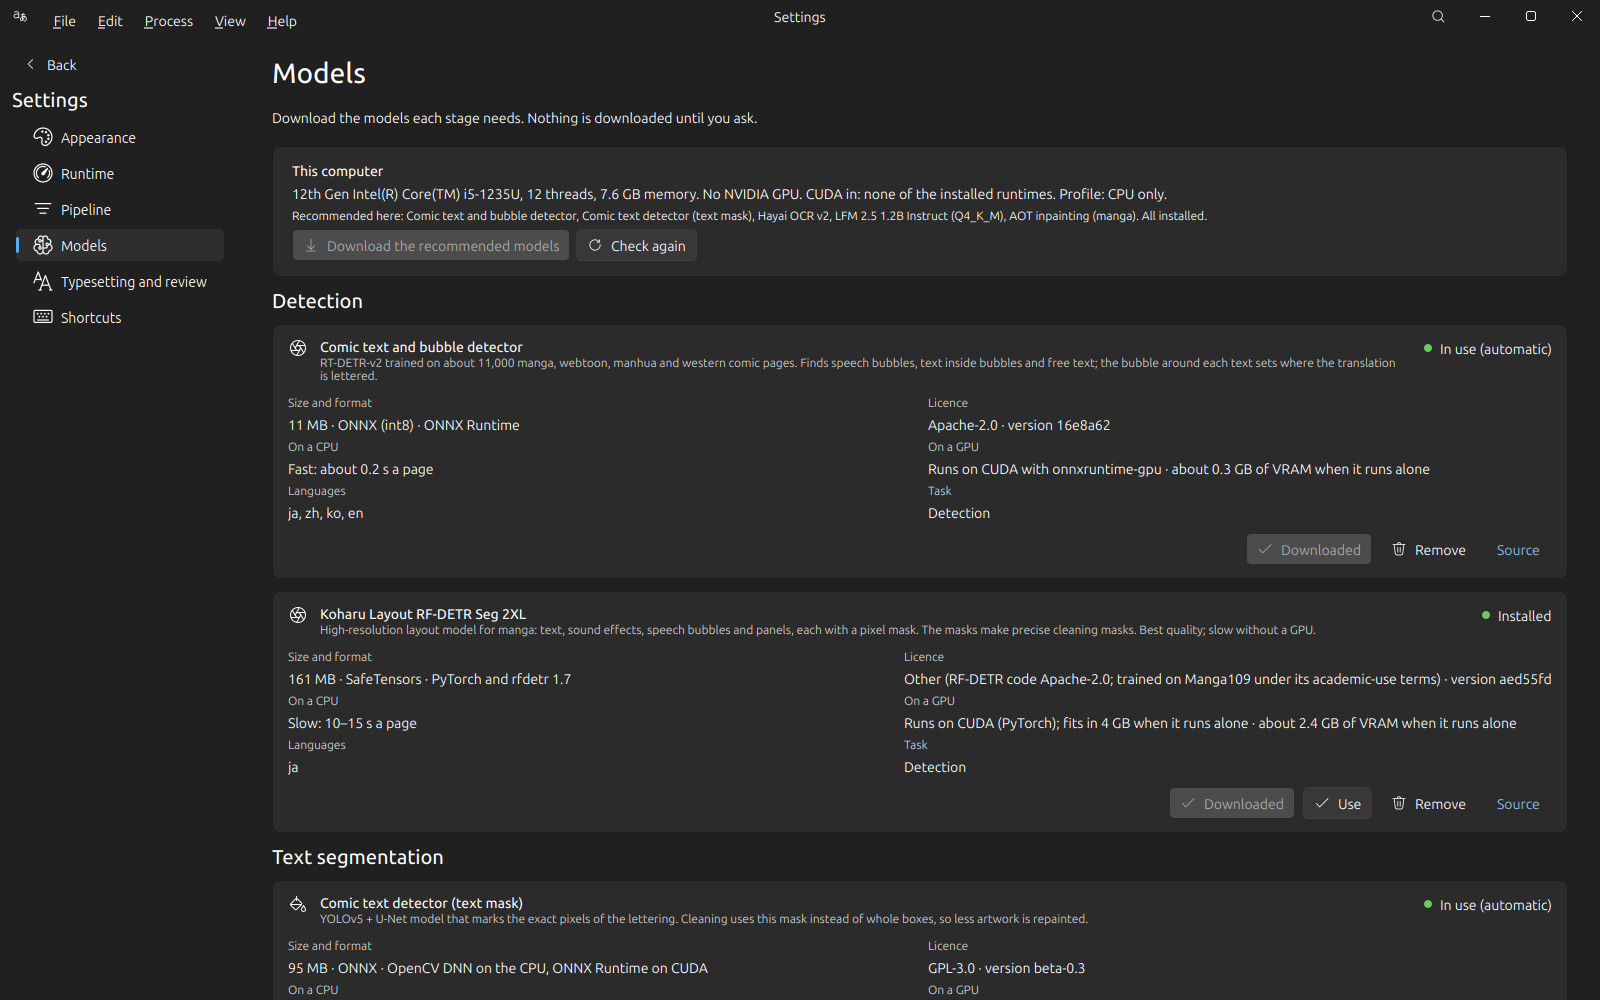
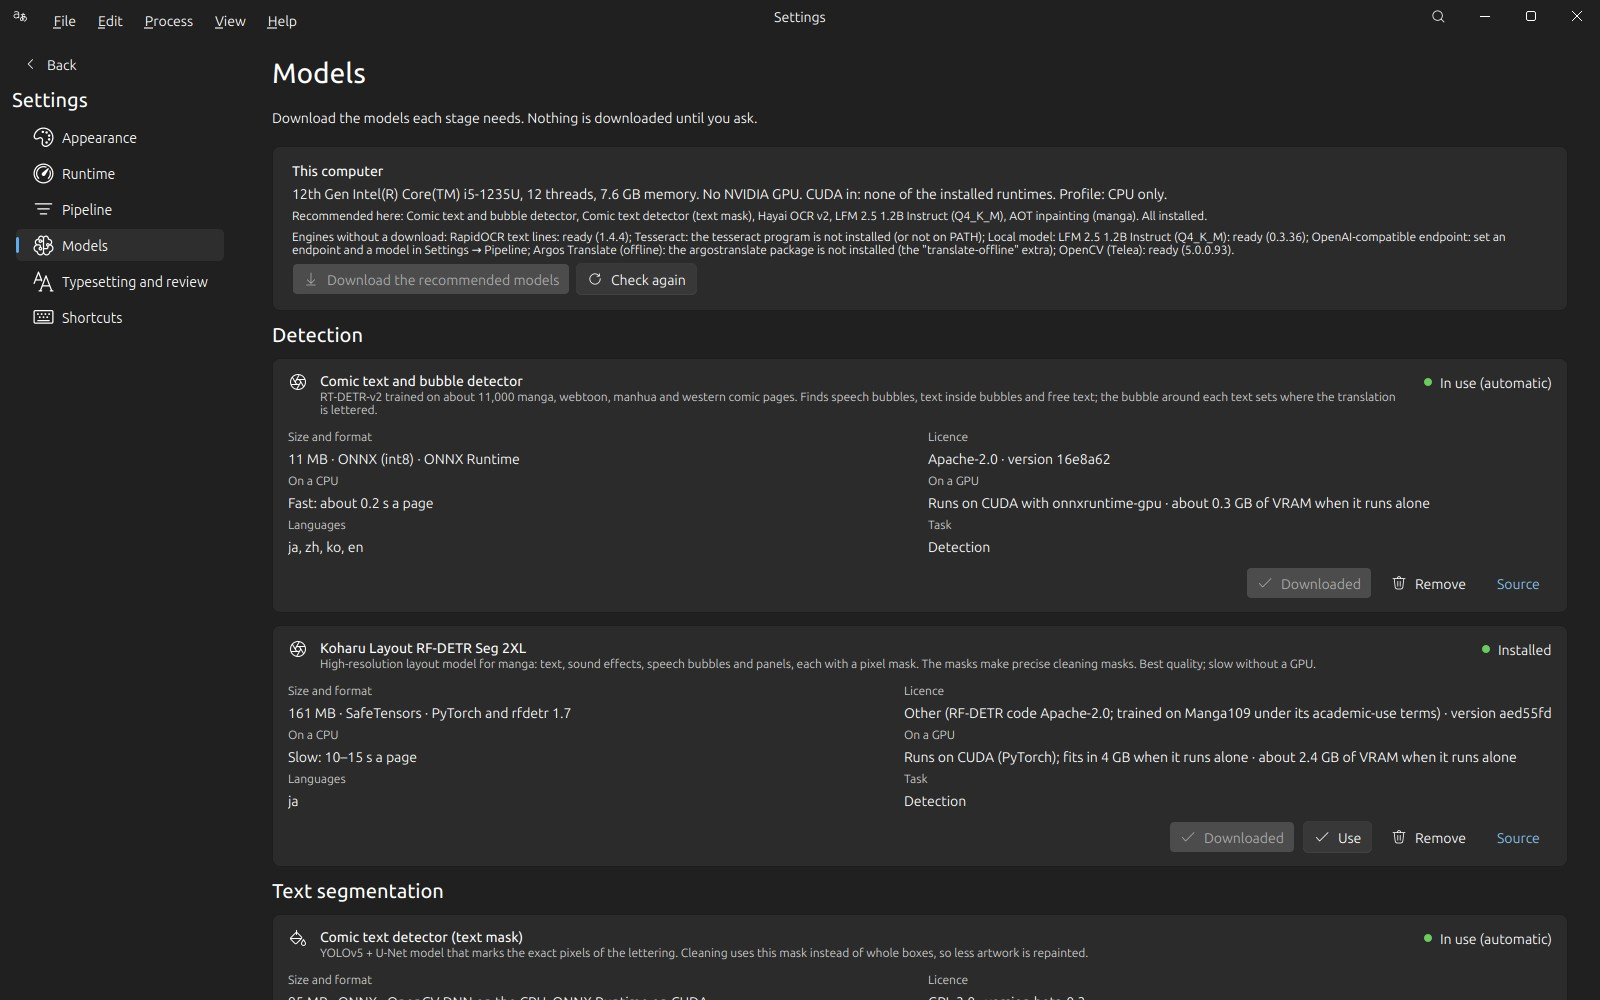
docs: update ComicTranslator showcase
Describe the model lifecycle, OCR backends and what each needs, the four groups of requirements and the uv setup, the engineering fixes (single-button About dialog, runtime loading order on Windows, packaged workers) and the measured model speeds; refresh the model manager screenshot.

diff --git a/README.md b/README.md
@@ -9,7 +9,8 @@ is modelled on [Koharu](https://github.com/koharu-rs/koharu); it is built with
 ![Portfolio](https://img.shields.io/badge/portfolio-showcase_only-1F3A5F)
 ![Source](https://img.shields.io/badge/source-private-6B6B6B)
 ![Qt](https://img.shields.io/badge/Qt-PyQt5_5.15-41CD52)
-![Models](https://img.shields.io/badge/models-local_(CPU_%7C_CUDA)-6D28D9)
+![Models](https://img.shields.io/badge/models-local,_CPU_first-6D28D9)
+![Setup](https://img.shields.io/badge/setup-uv_lock-DE5FE9)
 
 > **About this repository.** It presents ComicTranslator through screenshots and a written overview. It contains no
 > source code: the application's source is private at this stage. The comic pages in the screenshots are
@@ -34,13 +35,13 @@ overwritten.
 | At a glance | |
 |---|---|
 | **Detection** | RT-DETR comic text and bubble detector (0.2 s a page on a CPU) or Koharu's RF-DETR layout model; a segmentation model marks the lettering's exact pixels. |
-| **OCR** | Hayai OCR (Japanese, Chinese, Korean, English), Manga OCR and RapidOCR, chosen per language, with a confidence per region. |
+| **OCR** | Hayai OCR (Japanese, Chinese, Korean, English), Manga OCR, RapidOCR (Chinese, English) and Tesseract, chosen per language, with a confidence per region. |
 | **Translation** | Local GGUF models through llama.cpp (LFM 2.5, Qwen 3.5, Gemma 4), OpenAI-compatible endpoints or Argos; glossary, previous-page context and instructions. |
 | **Cleaning** | LaMa manga and AOT (PyTorch), LaMa ONNX, OpenCV or a built-in fill, at the original resolution; brush, eraser, protect and an instant Repair brush on an undoable mask. |
 | **Lettering** | Fitted to each balloon; horizontal, vertical (CJK) or right-to-left, with outline, spacing, padding and rotation. |
 | **Proofreading** | A review queue across the project (missing translations, low OCR confidence, overflow, doubtful cleanup) with keyboard navigation. |
-| **Runtime** | CPU first; CUDA through PyTorch, ONNX Runtime and llama.cpp; a Low VRAM profile for 4 GB GPUs that keeps one model on the GPU at a time and unloads it when its stage is done. |
-| **Model manager** | Download, resume, cancel, update, remove and choose models, with source, licence, size and hardware needs, and recommendations for the detected hardware. |
+| **Runtime** | CPU first. CUDA paths through PyTorch, ONNX Runtime and llama.cpp, and a Low VRAM profile for 4 GB GPUs that keeps one model on the GPU at a time, are implemented and covered by profile tests but have not yet been run on an NVIDIA GPU. |
+| **Model manager** | Download, resume, cancel, retry, update, remove and choose models, with source, licence, size and hardware needs, recommendations for the detected hardware, and each model's state read from disk. |
 
 ## Screens
 
@@ -55,7 +56,84 @@ overwritten.
 | ![Chinese](assets/comic-editor-cn.jpg) | ![Dark](assets/comic-editor-dark.jpg) |
 | **Chinese**, read with RapidOCR. | **Dark theme.** |
 | ![Models](assets/comic-models-dark.jpg) | ![Settings](assets/comic-settings.jpg) |
-| **Models:** source, licence, size and hardware. | **Settings → Pipeline.** |
+| **Models:** source, licence, size and hardware for each model; the top card lists the engines that need no download and why one is not ready (here: Tesseract not installed). | **Settings → Pipeline.** |
+
+## Models and engines
+
+| Stage | CPU default | Alternatives |
+|---|---|---|
+| Detection | Comic text and bubble detector (RT-DETR-v2, int8 ONNX) | Koharu Layout RF-DETR Seg 2XL (PyTorch, `rfdetr` 1.7.0), RapidOCR text lines |
+| Text mask | Comic text detector (OpenCV DNN on the CPU) | layout masks, an estimate inside each box |
+| OCR | Hayai OCR v2; RapidOCR for Chinese and English | Manga OCR, Tesseract |
+| Translation | LFM 2.5 1.2B (GGUF, llama.cpp) | Qwen 3.5, Gemma 4, any GGUF file, OpenAI-compatible endpoints, Argos Translate |
+| Inpainting | AOT (PyTorch) | LaMa manga, LaMa (ONNX), OpenCV Telea, a built-in fill |
+
+Every engine runs in a worker process and is probed there. The model manager tells apart three different problems: a
+Python package that is not installed, a package that is installed but fails to load (a missing CUDA or MSVC library,
+with the import error), and an external program that is missing or has no language data. A missing engine never stops
+the app: *Automatic* falls back to the next engine that is ready.
+
+## Model lifecycle
+
+Weights are never bundled. The model manager downloads them from their sources into the user data folder:
+
+* **State from disk.** A model is *installed* only when every file of its catalogued set is present with the catalogued
+  size: Hayai OCR has eight files (including its vision encoder's configuration), Manga OCR six, and all of them are
+  checked, not just the folder. The state is therefore right after a restart.
+* **States:** not downloaded · downloading · incomplete (bytes kept, *Resume*) · download failed (reason shown, *Retry*)
+  · files missing or out of date (*Re-download*) · installed / in use.
+* **Staged, resumable, verified.** A download collects the files in a staging folder, resumes each `.part` file with HTTP
+  range requests, and checks the weights against their SHA-256; a file that fails its checksum is discarded.
+* **Atomic replacement.** The staging folder replaces the model's folder in one rename only when the whole set is
+  complete, so a working model stays usable while a new revision downloads, and a failed or cancelled download never
+  looks installed. A crash between the two renames is finished or undone on the next download. Files of a damaged copy
+  whose checksum still matches are reused instead of downloaded again.
+
+## OCR backends and what each needs
+
+| Engine | Languages | Python packages | Outside Python |
+|---|---|---|---|
+| Hayai OCR v2 | ja, zh, ko, en | torch, transformers, pillow | downloaded weights |
+| Manga OCR | ja | torch, transformers, fugashi, unidic-lite | downloaded weights |
+| RapidOCR | zh, en | rapidocr-onnxruntime (Python 3.12 or older) | models ship inside the package |
+| Tesseract | per installed language | none (pytesseract is not used) | the `tesseract` program **and** its language data |
+
+Tesseract counts as ready only when the program runs and lists at least one language, and the app says which of the two is
+missing (for example, no `jpn.traineddata` for Japanese). Installing a Python OCR package does not install Tesseract.
+
+## Requirements and setup
+
+The project is locked with **uv** (`pyproject.toml` + `uv.lock`, Windows and Linux). Requirements fall into four groups:
+
+| Group | Contents | How it is installed |
+|---|---|---|
+| Python packages | PyQt5, NumPy, FluentQt Community and Pro; per-stage extras `detect`, `ocr`, `translate`, `inpaint`, `layout` (`rfdetr` 1.7.0 + torch), `translate-offline`; `cpu` installs every engine | `uv sync`, `uv sync --extra cpu` |
+| External programs and runtimes | Tesseract and its language data, the NVIDIA driver (optional), CJK fonts, an OpenAI-compatible server (optional) | by the user, outside Python |
+| Model assets | the weights of each model | the model manager |
+| Optional backends | RapidOCR, Tesseract, OpenCV, Argos, endpoints, CUDA builds | an extra, an external program or a separate environment |
+
+The base install starts the app with no AI runtime at all; the engines are added per stage. On Linux, PyTorch comes from
+PyTorch's CPU index (PyPI's Linux wheels are the multi-GB CUDA builds), and llama-cpp-python from its maintainer's CPU
+wheel index. Only `opencv-python` is declared: having it and `opencv-python-headless` side by side breaks `cv2`.
+
+Verified: `uv lock --check` passes, and a sync with the `cpu` extra into an empty environment (Linux, Python 3.12)
+imports every engine module and passes the test suite.
+
+## Engineering notes
+
+* **About dialog with one button.** The Community `MessageBox` always creates an OK and a Cancel button; the app had
+  passed an empty Cancel text, which left a real, blank second button that also closed the dialog. The dialog is now
+  built on the bare in-window dialog base with a single *Close* button (Enter and Escape close it), and a test asserts
+  it contains exactly one button.
+* **Native runtime loading order on Windows.** PyQt5 ships an older MSVC runtime. Loaded after Qt, ONNX Runtime crashes
+  the process and PyTorch fails with *WinError 1114 … c10.dll* (both reproduced). The workers import ONNX Runtime, and
+  on Windows PyTorch, before they touch Qt.
+* **OpenCV environment leakage.** `opencv-python` points Qt at its own plugins when imported; worker environments drop
+  those variables before Qt starts.
+* **Packaged builds.** `deploy/build.py` builds a standalone folder with Nuitka and then launches it (start, worker
+  probe, a self-test that processes two sample pages). PyTorch, llama.cpp and the models are never bundled: those
+  engines run in a Python chosen in Settings, from a copy of the app's sources placed beside the executable, which an
+  earlier build was missing. A full Nuitka build of the current version has not been run.
 
 ## Architecture
 
@@ -79,7 +157,14 @@ On a laptop CPU (i5-1235U, no GPU), with the CPU defaults:
 | | |
 |---|---|
 | Three Japanese pages, full pipeline | 86 s |
+| Eight pages: first page lettered, page flow vs stage by stage | 16 s vs 43 s |
 | Repair brush, one stroke | about 2 s to the rebuilt page |
+| Comic text and bubble detector | 0.2 s a page |
+| Koharu Layout RF-DETR Seg 2XL | 11–14 s a page |
+| Comic text detector: OpenCV DNN vs ONNX Runtime on the CPU | 4 s vs about 90 s a page |
+| Manga OCR / Hayai OCR v2 | 0.4 s / 0.8 s a balloon |
+| LFM 2.5 1.2B (Q4_K_M) translation | 2–3 s a page |
+| AOT / LaMa manga inpainting | about 4 s / 12 s a page |
 
 ## Author
 
